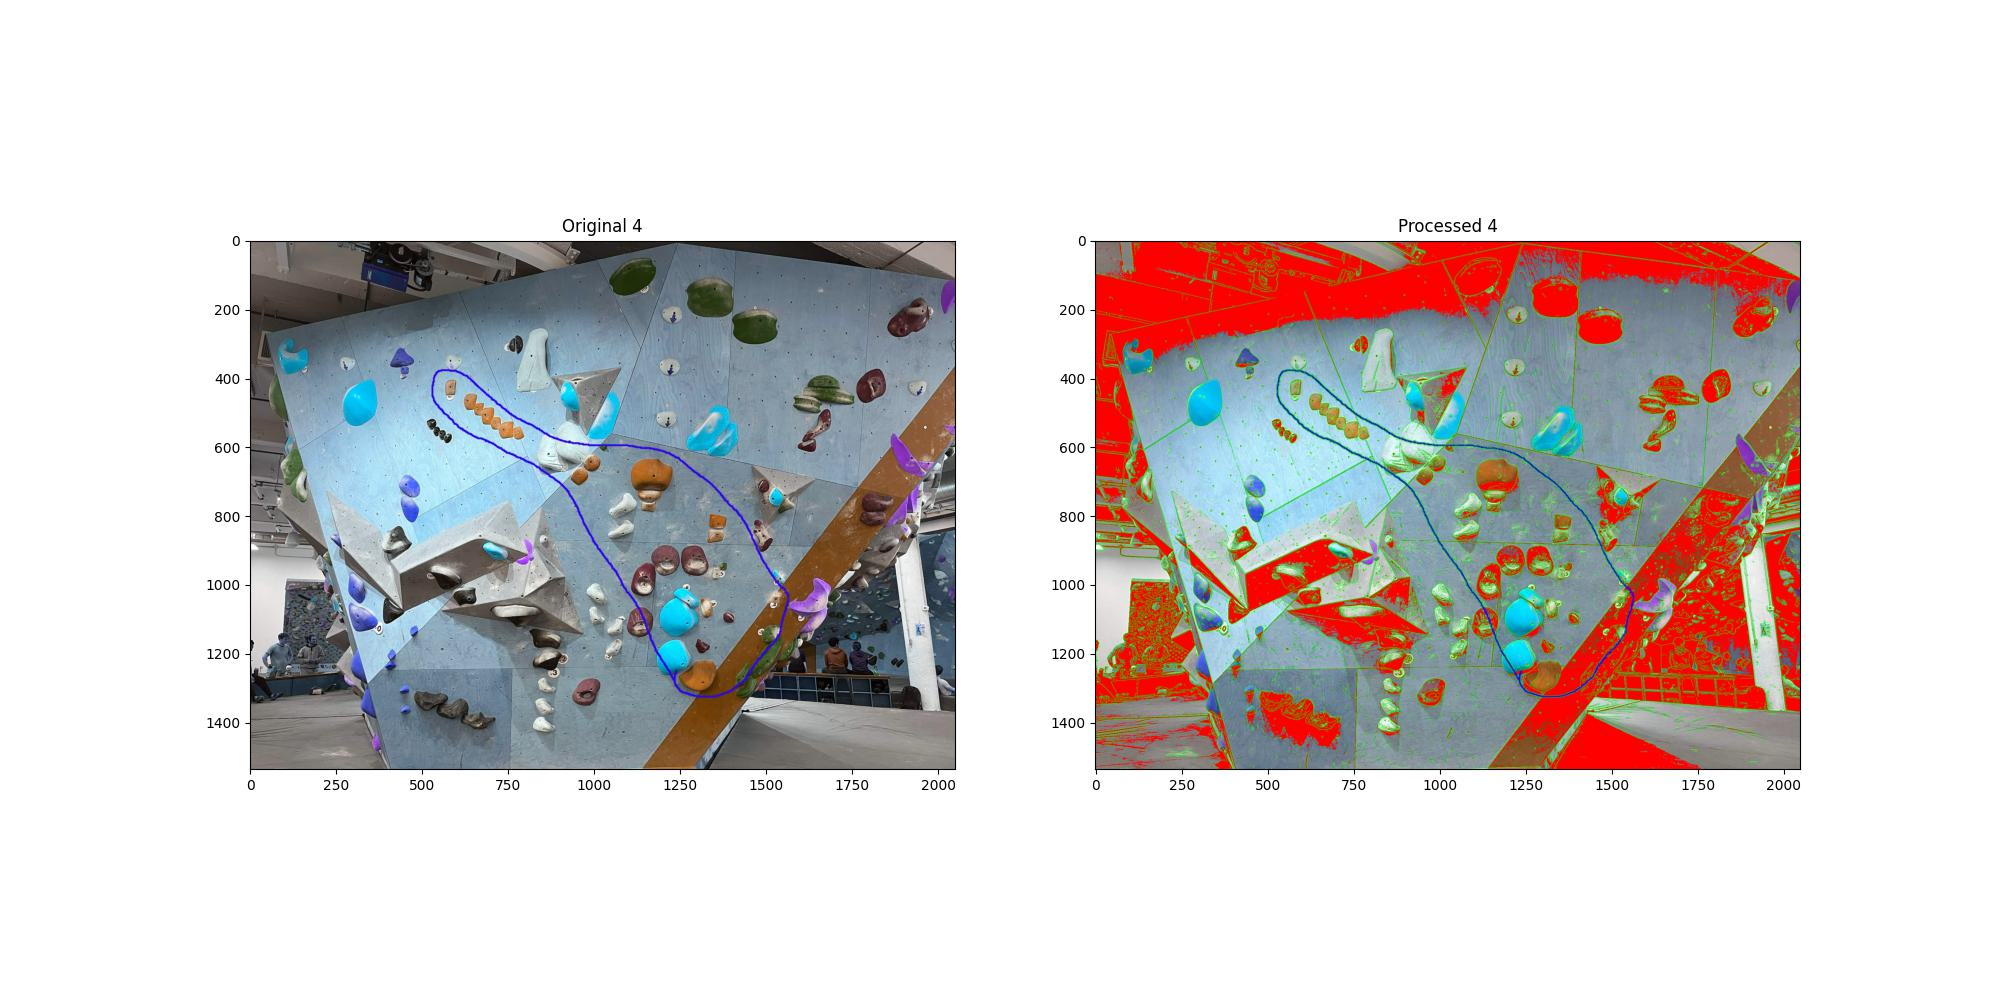
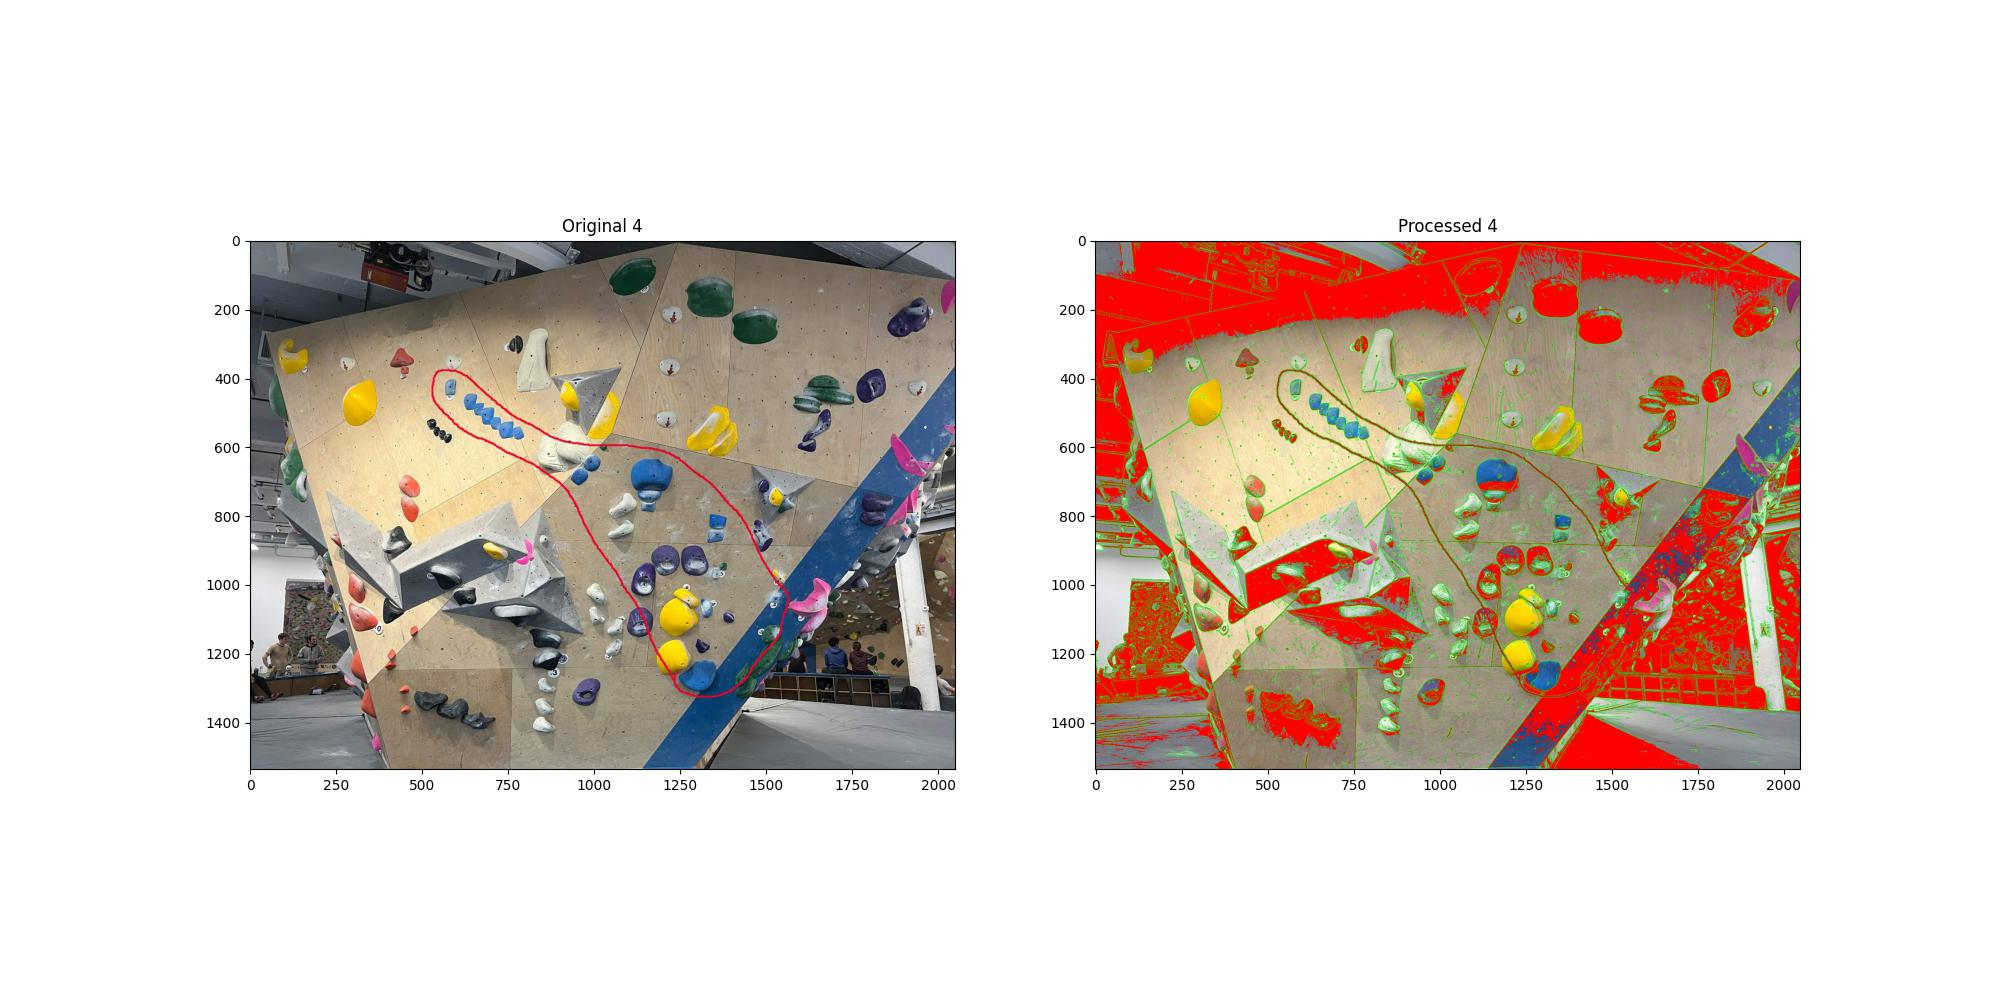
updated plots

Changed region(s): [[0.124, 0.248, 0.496, 0.775], [0.558, 0.248, 0.899, 0.775]]

diff --git a/code/hold_detection.py b/code/hold_detection.py
@@ -26,6 +26,7 @@ def detect_hold(image):
     
     height, width = otsu.shape[:2]
     image = cv2.imread(image)
+    image = cv2.cvtColor(image, cv2.COLOR_BGR2RGB)
     for i_x in range(width): 
         for i_y in range(height): 
             # compare ostu[i_y, i_x] with canny[i_y, i_x]
@@ -40,9 +41,8 @@ if __name__ == '__main__':
     f, plots = plt.subplots(8, 4, figsize=(20,10))  
     for i in range(8):
         plt.clf()
-
         plt.subplot(1, 2, 1)
-        plt.imshow(cv2.imread(f'data/V{i}/1.jpg'))
+        plt.imshow(cv2.cvtColor(cv2.imread(f'data/V{i}/1.jpg'), cv2.COLOR_BGR2RGBA))
         plt.title(f'Original {i}')
 
         plt.subplot(1, 2, 2)

diff --git a/code/canny.py b/code/canny.py
@@ -6,6 +6,7 @@ import matplotlib.pyplot as plt
 def canny_thres_image(file_path, weak_th = 50, strong_th = 150, color=(0,0,0)):
     image = cv2.imread(file_path)
     
+
     image = cv2.cvtColor(image, cv2.COLOR_BGR2GRAY) 
     # Noise reduction step 
     image = cv2.GaussianBlur(image, (5, 5), 1.4) 
